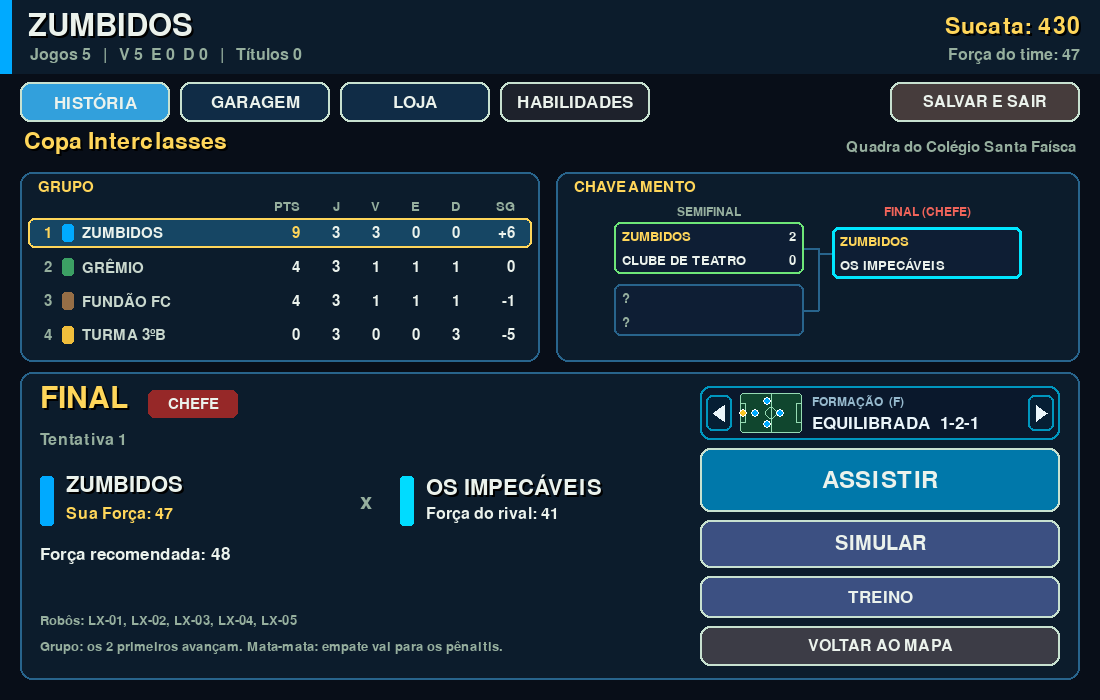
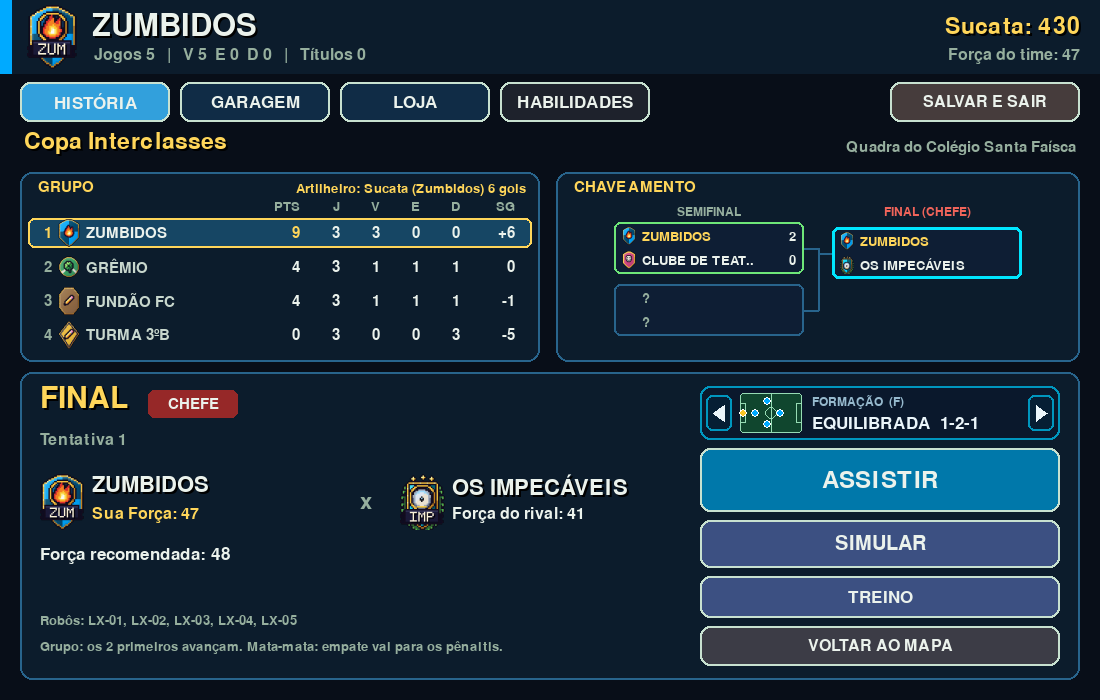
docs: escudos dos times (README, INDEX, spec visual e capturas)

diff --git a/README.md b/README.md
@@ -23,9 +23,9 @@ pelas habilidades dos robôs.
 | ![Menu principal](docs/img/menu.png) | ![Partida com câmera de estádio, gol e faixa do narrador](docs/img/partida-estadio-gol.png) |
 | **Menu** - amistosos, carreira de clubes, Modo Robôs e campanha | **Partida** - câmera de estádio, torcida reagindo ao gol, LED e faixa do narrador |
 | ![Campanha: diálogo](docs/img/campanha-dialogo.png) | ![Campanha: mapa dos capítulos](docs/img/campanha-mapa.png) |
-| **Campanha** - diálogos com personagens e cenários em pixel art animados (torcida com rostos, piso de tábuas, luzes) | **Mapa da campanha** - da escola ao Mundial de Aspiradores |
+| **Campanha** - diálogos com personagens e cenários em pixel art animados (torcida com rostos, piso de tábuas, luzes) | **Mapa da campanha** - da escola ao Mundial de Aspiradores, com o escudo do chefe de cada capítulo |
 | ![Campanha: torneio](docs/img/campanha-torneio.png) | ![Modo Robôs: liga](docs/img/modo-robos-liga.png) |
-| **Torneio** - grupo, chaveamento, final contra o chefe, formação e ASSISTIR ou SIMULAR | **Modo Robôs** - liga de 6 times em 4 tiers, com a formação do próximo jogo |
+| **Torneio** - grupo, chaveamento, final contra o chefe (escudos em todas as tabelas), formação e ASSISTIR ou SIMULAR | **Modo Robôs** - liga de 6 times em 4 tiers, com escudos e a formação do próximo jogo |
 | ![Garagem: bancada com 8 slots](docs/img/garagem-bancada.png) | ![Árvore de habilidades](docs/img/habilidades.png) |
 | **Garagem** - 8 slots (com Módulo), sets, relíquias e o antes/depois de cada peça | **Habilidades** - árvore Ataque/Controle/Defesa, skills equipadas e tática do time |
 | ![Mochila de itens](docs/img/mochila.png) | ![Galeria de cosméticos](docs/img/visual-cosmeticos.png) |
@@ -33,7 +33,7 @@ pelas habilidades dos robôs.
 
 | ![Amistoso: escolha de times e formações](docs/img/amistoso-escolha.png) | ![Seletor de formação na campanha](docs/img/formacao-campanha.png) |
 |---|---|
-| **Amistoso** - antes da partida, o time e a formação de cada lado (escudo, força e mini-campo com a posição dos robôs) | **Formação** - o mesmo seletor na campanha, no Modo Robôs e na carreira |
+| **Amistoso** - antes da partida, o time e a formação de cada lado (escudo em pixel art, força e mini-campo com a posição dos robôs) | **Formação** - o mesmo seletor na campanha, no Modo Robôs e na carreira |
 
 | ![Mapa do Ato 2](docs/img/campanha-mapa-ato2.png) | ![Superliga em pontos corridos](docs/img/campanha-superliga.png) |
 |---|---|
@@ -42,6 +42,14 @@ pelas habilidades dos robôs.
 ![Missões secundárias](docs/img/campanha-missoes.png)
 
 **Missões secundárias** - 14 missões avulsas com prêmio próprio; as 4 "Fitas do Vô" levam ao final secreto.
+
+| ![Fim da partida com os escudos](docs/img/partida-fim-escudos.png) | ![Tabela da carreira com escudos](docs/img/carreira-tabela.png) |
+|---|---|
+| **Fim da partida** - escudos dos dois times no placar e na faixa do resultado | **Carreira** - escudo de cada clube na tabela, no próximo jogo e nos resultados |
+
+![Todos os escudos](docs/img/escudos.png)
+
+**Escudos** - os 128 times do jogo (e exemplos de nomes do time do jogador, com *), desenhados por código.
 
 **Pós-campanha (Onda D):**
 
@@ -60,6 +68,19 @@ Robôs em campo com cosméticos (câmera PERTO):
 Tema tecnológico/neon: arena com grade e linhas holográficas, robôs-disco com
 anel de LED e barra de bateria, bola com brilho, rastro e faíscas, e HUD e menu
 novos.
+
+**Escudos dos times:** todos os 128 times do jogo (amistoso, carreira, campanha e liga do Modo Robôs;
+os adversários da Torre e do treino usam o escudo do time da liga de mesmo nome) têm um escudo em pixel
+art desenhado por código (`game/crests.py`), sem nenhuma imagem externa: formato (clássico, redondo,
+losango, hexágono, pontudo, francês, oval), padrão nas cores do time (liso, faixa, listras, metade,
+diagonal, quartos, chevron, aro), medalhão com um símbolo 15x15 escolhido pelo nome (tubarão, leão,
+dragão, raio, chama, coroa, flor de cerejeira, torre de xadrez, aspirador-robô, engrenagem, pão, vassoura,
+furacão, cavaleiro, trevo, ômega e mais ~40) e faixa com as iniciais. O mesmo time gera sempre o mesmo
+escudo. Os chefes e rivais da campanha (Os Impecáveis, Guarda Zero, X-Ômega Prime e o chefe de cada
+capítulo) têm escudo especial com coroa ou estrelas e louros ou asas. Aparecem no amistoso, no placar e
+no fim da partida, nas ESTATÍSTICAS/MELHOR DO JOGO, nas tabelas, artilharia, chaveamento, cards de
+resultado, carreira, mapa da campanha e Torre. O escudo do seu time sai do nome e da cor; no Modo Robôs e
+na campanha, **clique no escudo do topo** para trocar o símbolo (**SHIFT + clique** troca o formato).
 
 **Pisos do campo:** cada partida sorteia um piso, sem repetir o anterior. Pode ser a arena neon
 original ou um piso de casa: cozinha em xadrez, tacos de madeira, porcelanato, ladrilho hidráulico ou
@@ -420,6 +441,7 @@ export SDL_VIDEODRIVER=dummy SDL_AUDIODRIVER=dummy
 .venv/bin/python tests/test_camera.py                  # câmera de estádio: começa sempre em ESTÁDIO, C só na pausa, gol não troca, zero Surface
 .venv/bin/python tests/test_narration.py               # narrador/comentarista: catálogo, fila sem spam, nomes, faixa, zero Surface
 .venv/bin/python tests/test_match_stats.py             # estatísticas: assistência, gol contra, defesa, MVP, coleta não muda o jogo, SIMULAR, saves, telas
+.venv/bin/python tests/test_crests.py                  # escudos: determinismo, todos os times, cache/memória, zero Surface por quadro, contraste, campo "crest" da garagem
 .venv/bin/python tests/test_robot_art.py               # robôs: chassis, peças visíveis, cache, FX, local da torcida por modo
 .venv/bin/python tests/test_arena.py                   # modificadores de arena da Torre do Pó (desligados fora dela, efeito, zero Surface)
 CAMPAIGN_BAL_N=100 .venv/bin/python tests/test_campaign_balance.py   # balanço da campanha por simulação (lento, ver abaixo)
@@ -465,6 +487,7 @@ Utilitários do harness (`tests/sim_harness.py`): `golden`/`golden-new` com
 - `game/crowd.py`: torcida (locais, espectadores pré-renderizados, reações, confete/LED/telão "AO VIVO", LOD) e a geometria das câmeras PERTO/ESTÁDIO
 - `game/narration.py`: narrador (Tonho) e comentarista (Cleide): catálogo de falas, fila sem spam e a faixa de TV da partida
 - `game/match_stats.py`: estatísticas da partida (puro): contadores por robô, nota, MELHOR DO JOGO, estatísticas estimadas do SIMULAR e acumulados
+- `game/crests.py`: escudos dos times em pixel art (formato, padrão, símbolo, iniciais, especiais dos chefes), determinísticos, com cache LRU limitado e geração fora do desenho (`request`/`pump`)
 - `game/stats_ui.py`: cartão MELHOR DO JOGO, faixa do fim da partida e painel ESTATÍSTICAS (usados pelo motor e pelos cards de resumo)
 - `tools/normalizar_audio.sh`: deixa os áudios de `game/audio/` compactos e com o volume nivelado (ffmpeg; ver `docs/specs/som.md`)
 - `tools/versionar_build.sh`: versiona `game.apk`/`game.tar.gz` no `index.html` do build (`?v=<sha256 curto do game.apk>`; cache busting a cada deploy)

diff --git a/docs/INDEX.md b/docs/INDEX.md
@@ -8,13 +8,13 @@ Planejamento e especificações do jogo. O código e os comandos do dia a dia es
 | [roadmap.md](roadmap.md) | Fases do projeto, objetivos e tamanho da Fase 4 (Campanha Expandida), princípios que não podem quebrar e marcos jogáveis (M1-M5) |
 | [specs/campanha-expandida.md](specs/campanha-expandida.md) | A campanha atual vira o Ato 1; Ato 2 (Superliga Limpex, caps. 6-9) e Ato 3 (Copa dos Campeões, caps. 10-13); 7 personagens novos, formatos de torneio novos, escolhas com consequência, 3 finais, missões secundárias, migração de saves, curva de dificuldade e economia |
 | [specs/itens-e-habilidades.md](specs/itens-e-habilidades.md) | Peças de 14 para ~36 modelos, 8º slot "Módulo", sets, relíquias únicas, consumíveis de partida, cosméticos e o sistema de 16 skills dos robôs (gatilhos, efeitos no motor, cooldown, custo de bateria, como se ganham), integração no motor sem quebrar os goldens, calibração e garage v2 |
-| [specs/visual-desenhos-e-torcida.md](specs/visual-desenhos-e-torcida.md) | Torcida nas arquibancadas (geometria, técnica sem Surface por frame, orçamento de desempenho, reações por evento, densidade por capítulo, narrador e comentarista na faixa de TV, telão AO VIVO, câmera ESTÁDIO em toda partida), robôs com peças visíveis e animações, retratos e cenários mais detalhados, personagens em pixel art (estilo padrão: técnica, roupas/acessórios por personagem, humores, busto, cache e custo), e como testar |
+| [specs/visual-desenhos-e-torcida.md](specs/visual-desenhos-e-torcida.md) | Torcida nas arquibancadas (geometria, técnica sem Surface por frame, orçamento de desempenho, reações por evento, densidade por capítulo, narrador e comentarista na faixa de TV, telão AO VIVO, câmera ESTÁDIO em toda partida), robôs com peças visíveis e animações, retratos e cenários mais detalhados, personagens em pixel art (estilo padrão: técnica, roupas/acessórios por personagem, humores, busto, cache e custo), escudos dos times (`crests.py`: técnica, símbolos, especiais, cache fora do desenho, custo, escudo do jogador) e como testar |
 | [specs/som.md](specs/som.md) | Fase 6 - Som: catálogo de efeitos e onde tocam, trilhas chiptune, síntese (stdlib, 22050 Hz), formato do mixer, prefs (M/S/N), limites de vozes e throttle, navegador (pygbag) e medições; reações da torcida (tabela única, variações derivadas, saco embaralhado), música da partida + torcida de fundo em loop tocando juntas (volumes, RAM, `tools/torcida_loop.sh`) e áudios compactos com volume nivelado (`tools/normalizar_audio.sh`) |
 | [specs/formacoes.md](specs/formacoes.md) | Formações (5) em todos os modos: dados compartilhados (`formations.py`), seletor com mini-campo (`formation_ui.py`) no Amistoso, na Campanha (torneio, treino, Torre), no Modo Robôs (aba LIGA) e na Carreira (aba INÍCIO), teclas, motor (padrão = motor de sempre), campo opcional `formation` nos saves, CPU na padrão; balanceamento medido em `tests/calib_formations.py` (sem formação dominante até Força ~75; efeito no SIMULAR) |
 | [specs/estatisticas.md](specs/estatisticas.md) | Estatísticas da partida (coleta passiva no motor: gols, assistências, chutes, passes, desarmes, dribles, defesas, posse), nota e MELHOR DO JOGO, onde aparecem em cada modo (fim da partida, card do resumo, TAB), SIMULAR com RNG privado, acumulados nos saves (robo `cs`, liga `ps`, torneio `ps`, jogadores da carreira) e limitações |
 | [plano-crazygames.md](plano-crazygames.md) | Proposta para publicar no CrazyGames: como funciona a publicação (Basic/Full Launch, repasse), direitos dos áudios a trocar, inglês, SDK de anúncios (`game/portal.py`), build sem CDN externo, celular, página, cadastro/pagamento e ordem dos passos |
 | [baseline-fase4.md](baseline-fase4.md) | Medições de referência antes da Fase 4 (commit 8a467a3): `draw_ms`, `menu_ms`, `ms_step`, goldens e resumo da calibragem da campanha |
-| [img/](img/) | Capturas de tela usadas no README (menu, partida com a faixa do narrador, amistoso, formação, campanha, garagem, habilidades, Mochila, cosméticos, Torre). Para regerar, com `SDL_VIDEODRIVER=dummy SDL_AUDIODRIVER=dummy SOCCERPY_SHOTS_DIR=<pasta>`: `tests/sim_harness.py ui-shots` (menu `a7_menu.png`, gol e narração) e `camera-shots`; `tests/test_campaign_ui.py <teste>` (ex.: `test_tourney_group_table_bracket_and_labels` -> `tourney_knockout.png`, `test_tower_screen_sim_watch_marks_and_restart` -> `d2_torre_tela.png`, `test_formation_selector_tourney_training_and_save` -> `formacao_torneio.png`); `tests/test_robots_ui.py test_formation_selector_robots_hub_and_save` (`formacao_robos.png`, aba LIGA); `tests/test_friendly.py` (tela do amistoso). A partida do README é um Modo Robôs no `estadio` com a garagem `sim_harness.loaded_garage()`, capturada após ~12 s de jogo. Confira cada imagem e copie só as escolhidas |
+| [img/](img/) | Capturas de tela usadas no README (menu, partida com a faixa do narrador, amistoso, formação, campanha, garagem, habilidades, Mochila, cosméticos, Torre, escudos). Para regerar, com `SDL_VIDEODRIVER=dummy SDL_AUDIODRIVER=dummy SOCCERPY_SHOTS_DIR=<pasta>`: `tests/sim_harness.py ui-shots` (menu `a7_menu.png`, gol e narração) e `camera-shots`; `tests/test_campaign_ui.py <teste>` (ex.: `test_tourney_group_table_bracket_and_labels` -> `tourney_knockout.png`, `test_tower_screen_sim_watch_marks_and_restart` -> `d2_torre_tela.png`, `test_formation_selector_tourney_training_and_save` -> `formacao_torneio.png`); `tests/test_robots_ui.py test_formation_selector_robots_hub_and_save` (`formacao_robos.png`, aba LIGA); `tests/test_friendly.py` (tela do amistoso). A partida do README é um Modo Robôs no `estadio` com a garagem `sim_harness.loaded_garage()`, capturada após ~12 s de jogo. Confira cada imagem e copie só as escolhidas |
 | [specs/plano-de-implementacao.md](specs/plano-de-implementacao.md) | Ondas 0, A (visual), B (itens/skills), C (campanha), D (pós-campanha) em passos pequenos com arquivos e validação; estratégia de testes; riscos; decisões para o dev |
 
 ## Estado
@@ -64,5 +64,8 @@ Planejamento e especificações do jogo. O código e os comandos do dia a dia es
   MVP), estatísticas estimadas no SIMULAR e artilharia/assistências acumuladas (liga do Modo Robôs, ficha do
   robô, torneio da campanha, carreira), campos opcionais nos saves; goldens 80/80
   ([specs/estatisticas.md](specs/estatisticas.md)): pronto (branch `feat/estatisticas-e-melhor-do-jogo`).
+- Escudos dos times em pixel art (`game/crests.py`): os 128 times de todos os modos + o do jogador (clique no escudo
+  do topo troca símbolo/formato, campo opcional `crest` na garagem), em todas as telas com times; goldens 80/80
+  ([specs/visual-desenhos-e-torcida.md](specs/visual-desenhos-e-torcida.md)): pronto (branch `feat/escudos-dos-times`).
 - Deploy: build do pygbag + `tools/versionar_build.sh` (cache busting do `game.apk`); ver o README.
-- Código: ~50,7 mil linhas (game ~30,1 mil, tests ~20,6 mil); 548 testes (`def test_` em `tests/test_*.py`).
+- Código: ~52,7 mil linhas (game ~31,7 mil, tests ~21,0 mil); 560 testes (`def test_` em `tests/test_*.py`).

diff --git a/docs/specs/visual-desenhos-e-torcida.md b/docs/specs/visual-desenhos-e-torcida.md
@@ -203,6 +203,37 @@ Hoje o robô é um disco 64x64 (chassis só muda detalhes). Plano (arquivo novo 
 - **Animação** (`anim_*`): por quadro só `Surface.fill` em blocos lógicos de 3 px e blits de sprites prontos (brilhos em anéis x3, placa NO AR, neon LANCHES) aquecidos em `portraits._warm`: bandeirolas com recorte em V, placar, flashes de câmera, telão com equalizador, globo girando, drones e confete, engrenagens, relógio, vapor, lâmpadas do camarim em sequência, bandeiras, pombo-robô, bolhas e holograma, malas na esteira, lanternas e pétalas, esteira com Zés e braço robótico, carro passando.
 - **Custo medido** (desktop, `get_background` = pintura + frente + sprites da animação): 3-10 ms por cenário (médio ~6 ms; Mundial ~15 ms com o globo e os drones), a frio (sprites zerados) igual; o clássico ficava em ~9 ms. Cache de cenários igual ao clássico (6 x 2,1 MB = 12,6 MB no teto), frentes ~2,5 MB, sprites da camada pixel ~1,2 MB (o clássico usava ~2,4 MB de brilhos suaves). Quadro (fundo + animação + frente) ~0,4 ms.
 
+### 4.x Escudos dos times (`crests.py`)
+
+- **O quê**: os 128 times do jogo (2 clássicos do amistoso, 24 clubes da carreira, 86 de `story.TEAMS`, 16 da liga
+  do Modo Robôs) e o time do jogador têm escudo em pixel art, sem imagens externas e sem nada parecido com clube
+  real. Os nomes não mudam. Adversários da Torre ("Parafusos FC 12") e do treino usam o escudo do time da liga
+  de mesmo nome.
+- **Técnica** (mesma família dos personagens/cenários): tela lógica 32x40 pintada num buffer RGBA, ampliada por
+  vizinho mais próximo (40/80/120 px de altura ficam nítidos; outras alturas ampliam para o múltiplo de cima e
+  reduzem com smoothscale). Formato (7) + padrão (8) com a cor do time e uma secundária com contraste mínimo,
+  luz/sombra e bevel, borda dourada e contorno escuro; medalhão com símbolo 15x15 (55 símbolos: arte em texto e
+  alguns radiais por fórmula) com contorno automático; faixa com até 3 iniciais numa fonte 5x7. Abaixo de 40 px
+  o layout é **compacto**: sem faixa (ilegível) e com o símbolo direto no campo. Medalhão escuro, ou creme
+  quando o símbolo é escuro (contraste >= 3). Chefes/rivais (`SPECIALS`): borda dupla, coroa ou estrelas, louros
+  ou asas.
+- **Determinismo**: tudo sai de `zlib.crc32` do nome (sem `hash()`, sem random). Símbolo por palavra-chave
+  (`SYMBOL_RULES`, prefixo de palavra sem acento; `"sol$"` = palavra inteira), senão fallback pelo hash.
+- **Cache e quadro**: LRU de Surfaces prontas por (nome, cor, altura, custom, compacto) com teto de 4 MB, e LRU
+  de 160 artes lógicas (~5 KB cada). No desenho as telas só chamam `crests.blit`: se o escudo não está pronto,
+  o pedido entra numa fila e um escudo simples (`pygame.draw`) ocupa o lugar; `crests.pump()` roda no
+  `Game.update` (fora do desenho, o pedido mais novo primeiro, ~6 ms por quadro, no mínimo 1). Amistoso
+  (abrir/trocar) e partida (`warm_crests` no início: HUD, fim e ESTATÍSTICAS) aquecem na hora. Com a fila vazia,
+  zero Surface por quadro.
+- **Custo medido** (desktop): arte ~2,4 ms por escudo, `get` com ampliação ~1,2 ms; os 128 times em 4 alturas
+  ~7 MB sem limite (com o teto, 4 MB). No navegador (WASM, ~5-10x mais lento) ~15-25 ms por escudo: uma tabela
+  de 8 times completa em poucos quadros.
+- **Time do jogador**: gerado pelo nome/cor; campo opcional `team["crest"] = {"sym", "shape"}` na garagem
+  (Modo Robôs e campanha; `garage.clean_crest`, ids desconhecidos ignorados no desenho, saves antigos sem o campo
+  carregam igual). No topo do Modo Robôs/campanha, clique no escudo troca o símbolo e SHIFT + clique o formato.
+  O `match_cfg` leva o `crest` (o motor ignora; goldens 80/80).
+- **Testes**: `tests/test_crests.py`; folha com todos: `docs/img/escudos.png`.
+
 ## 5. Como testar (obrigatório)
 - **Zero Surface por frame**: `tests/test_crowd.py` troca `pygame.Surface` por um contador (como `test_60_frames_every_screen_zero_surface_and_cache`) e confere 0 criações em 300 frames de partida com torcida em cada local; idem para robôs com todas as peças e FX de skills.
 - **Tempo de desenho**: `sim_harness.py draw` ganha `--crowd` e imprime `draw_ms` por local; limite duro 25 ms (como `test_draw_time_budget`), metas 1,5 ms (desktop). Aviso informativo > 3 ms.
